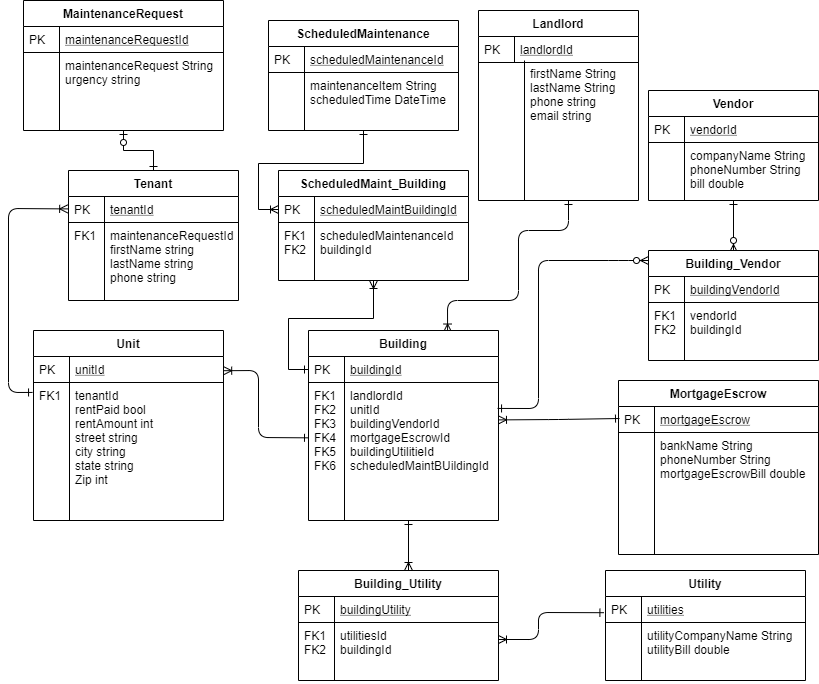
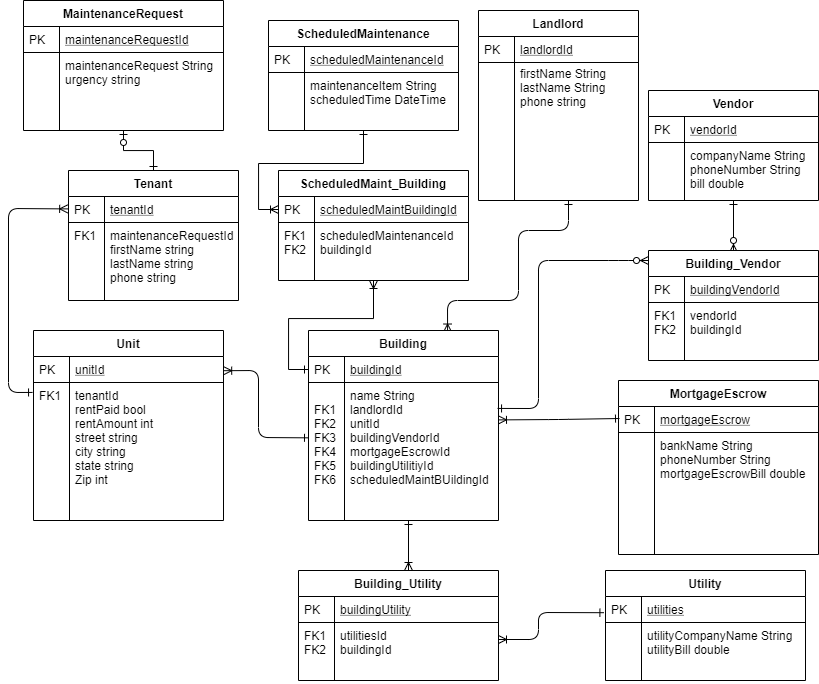
Completed all models and Foreign Key relationship mapping, ready to add-migration

Changed region(s): [[0.3968, 0.5526, 0.6105, 0.7061], [0.6105, 0.0921, 0.7631, 0.1842]]

diff --git a/Models/Building.cs b/Models/Building.cs
@@ -1,5 +1,7 @@
 using System;
 using System.Collections.Generic;
+using System.ComponentModel.DataAnnotations;
+using System.ComponentModel.DataAnnotations.Schema;
 using System.Linq;
 using System.Threading.Tasks;
 
@@ -7,6 +9,25 @@ namespace RPM_Tool.Models
 {
     public class Building
     {
+        [Key]
+        public int Id { get; set; }
+        public string Name { get; set; }
+        [ForeignKey("Landlord")]
+        public int LandlordId { get; set; }
+        [ForeignKey("Unit")]
+        public int UnitId { get; set; }
+        [ForeignKey("BuildingVendor")]
+        public int BuildingVendorId { get; set; }
+        [ForeignKey("MortgageEscrow")]
+        public int MortgageEscrowId { get; set; }
+        [ForeignKey("BuildingUtility")]
+        public int BuildingUtilityId { get; set; }
+        [ForeignKey("ScheduledMaintenance")]
+        public int ScheduledMaintenanceId { get; set; }
 
+        public ICollection<Building_Vendor> Building_Vendors { get; set; }
+
+        public ICollection<Building_Utility> Building_Utilities { get; set; }
+        public ICollection<ScheduledMaintenance_Building> ScheduledMaintenance_Buildings  { get; set; }
     }
 }

diff --git a/Models/Tenant.cs b/Models/Tenant.cs
@@ -1,5 +1,8 @@
-using System;
+using Microsoft.AspNetCore.Identity;
+using System;
 using System.Collections.Generic;
+using System.ComponentModel.DataAnnotations;
+using System.ComponentModel.DataAnnotations.Schema;
 using System.Linq;
 using System.Threading.Tasks;
 
@@ -7,5 +10,18 @@ namespace RPM_Tool.Models
 {
     public class Tenant
     {
+        [Key]
+        public int Id { get; set; }
+        [ForeignKey("IdentityUser")]
+        public string IdentityUserId { get; set; }
+        public IdentityUser IdentityUser { get; set; }
+        [ForeignKey("TednantMaintenanceRequest")]
+        public string TenantMaintenanceRequestId { get; set; }
+        [Display(Name = "First Name")]
+        public string FirstName { get; set; }
+        [Display(Name = "Last Name")]
+        public string LastName { get; set; }
+        [Display(Name = "Phone Number")]
+        public string PhoneNumber { get; set; }
     }
 }

diff --git a/Models/Landlord.cs b/Models/Landlord.cs
@@ -1,6 +1,8 @@
-using System;
+using Microsoft.AspNetCore.Identity;
+using System;
 using System.Collections.Generic;
 using System.ComponentModel.DataAnnotations;
+using System.ComponentModel.DataAnnotations.Schema;
 using System.Linq;
 using System.Threading.Tasks;
 
@@ -10,14 +12,17 @@ namespace RPM_Tool.Models
     {
         [Key]
         public int Id { get; set; }
+        [ForeignKey("IdentityUser")]
+        public string IdentityUserId { get; set; }
+        public IdentityUser IdentityUser { get; set; }
+
         [Display(Name = "First Name")]
         public string FirstName { get; set; }
         [Display(Name = "Last Name")]
         public string LastName { get; set; }
-        [Display(Name = "Phone")]
+        [Display(Name = "Phone Number")]
         public string PhoneNumber { get; set; }
-        [Display(Name = "Email Address")]
-        public string Email { get; set; }
+  
 
     }
 }

diff --git a/Models/Vendor.cs b/Models/Vendor.cs
@@ -1,0 +1,23 @@
+using System;
+using System.Collections.Generic;
+using System.ComponentModel.DataAnnotations;
+using System.Linq;
+using System.Threading.Tasks;
+
+namespace RPM_Tool.Models
+{
+    public class Vendor
+    {
+        [Key]
+        public int Id { get; set; }
+        [Display(Name = "Vendor Name")]
+        public string VendorName { get; set; }
+        [Display(Name = "Phone Number")]
+        public string PhoneNumber { get; set; }
+        [Display(Name = "Service Performed")]
+        public string ServicePeformed { get; set; }
+        public double ServiceBill { get; set; }
+        public ICollection<Building_Vendor> Building_Vendors { get; set; }
+
+    }
+}

diff --git a/Models/Utility.cs b/Models/Utility.cs
@@ -1,0 +1,23 @@
+using System;
+using System.Collections.Generic;
+using System.ComponentModel.DataAnnotations;
+using System.Linq;
+using System.Threading.Tasks;
+
+namespace RPM_Tool.Models
+{
+    public class Utility
+    {
+        [Key]
+        public int Id { get; set; }
+        [Display(Name = "Utility Provider")]
+        public string UtilityProvider { get; set; }
+        [Display(Name = "Utility Type")]
+        public string UtilityType { get; set; }
+        [Display(Name = "Phone Number")]
+        public string PhoneNumber { get; set; }
+        public double Bill { get; set; }
+
+        public ICollection<Building_Utility> Building_Utilities { get; set; }
+    }
+}

diff --git a/Models/ScheduledMaintenance_Building.cs b/Models/ScheduledMaintenance_Building.cs
@@ -1,0 +1,23 @@
+using System;
+using System.Collections.Generic;
+using System.ComponentModel.DataAnnotations;
+using System.ComponentModel.DataAnnotations.Schema;
+using System.Linq;
+using System.Threading.Tasks;
+
+namespace RPM_Tool.Models
+{
+    public class ScheduledMaintenance_Building
+    {
+        [Key]
+        public int Id { get; set; }
+        [ForeignKey("ScheduledMaintenance")]
+        public int ScheduledMaintenanceId { get; set; }
+        public ScheduledMaintenance ScheduledMaintenance { get; set; }
+        [ForeignKey("Building")]
+        public int BuildingId { get; set; }
+        public Building Building { get; set; }
+
+
+    }
+}

diff --git a/Models/Building_Utility.cs b/Models/Building_Utility.cs
@@ -1,0 +1,22 @@
+using System;
+using System.Collections.Generic;
+using System.ComponentModel.DataAnnotations;
+using System.ComponentModel.DataAnnotations.Schema;
+using System.Linq;
+using System.Threading.Tasks;
+
+namespace RPM_Tool.Models
+{
+    public class Building_Utility
+    {
+        [Key]
+        public int Id { get; set; }
+        [ForeignKey("Utility")]
+        public int UtilityId { get; set; }
+        public Utility Utility { get; set; }
+        public int VendorId { get; set; }
+        [ForeignKey("Building")]
+        public int BuildingId { get; set; }
+        public Building Building { get; set; }
+    }
+}

diff --git a/Models/Building_Vendor.cs b/Models/Building_Vendor.cs
@@ -1,0 +1,22 @@
+using System;
+using System.Collections.Generic;
+using System.ComponentModel.DataAnnotations;
+using System.ComponentModel.DataAnnotations.Schema;
+using System.Linq;
+using System.Threading.Tasks;
+
+namespace RPM_Tool.Models
+{
+    public class Building_Vendor
+    {
+        [Key]
+        public int Id { get; set; }
+        [ForeignKey("Vendor")]
+        public int VendorId { get; set; }
+        public Vendor Vendor { get; set; }
+        [ForeignKey("Building")]
+        public int BuildingId { get; set; }
+        public Building Building { get; set; }
+
+    }
+}

diff --git a/Models/MortgageAndEscrow.cs b/Models/MortgageAndEscrow.cs
@@ -1,0 +1,19 @@
+using System;
+using System.Collections.Generic;
+using System.ComponentModel.DataAnnotations;
+using System.Linq;
+using System.Threading.Tasks;
+
+namespace RPM_Tool.Models
+{
+    public class MortgageAndEscrow
+    {
+        [Key]
+        public int Id { get; set; }
+        [Display(Name = "Mortgage Provider")]
+        public string MortgageProvider {get;set;}
+        [Display(Name = "Mortgage and Escrow Bill")]
+        public string MortgageAndEscrowBill { get; set; }
+
+    }
+}

diff --git a/Models/ScheduledMaintenance.cs b/Models/ScheduledMaintenance.cs
@@ -1,0 +1,19 @@
+using System;
+using System.Collections.Generic;
+using System.ComponentModel.DataAnnotations;
+using System.Linq;
+using System.Threading.Tasks;
+
+namespace RPM_Tool.Models
+{
+    public class ScheduledMaintenance
+    {
+        [Key]
+        public int Id { get; set; }
+        [Display(Name = "Maintenance Item")]
+        public string MaintenanceItem { get; set; }
+        [Display(Name = "Scheduled Time")]
+        public DateTime ScheduledTime { get; set; }
+
+    }
+}

diff --git a/Models/TenantMaintenanceRequest.cs b/Models/TenantMaintenanceRequest.cs
@@ -1,0 +1,20 @@
+using System;
+using System.Collections.Generic;
+using System.ComponentModel.DataAnnotations;
+using System.Linq;
+using System.Threading.Tasks;
+
+namespace RPM_Tool.Models
+{
+    public class TenantMaintenanceRequest
+    {
+        [Key]
+        public int Id { get; set; }
+        [Display(Name = "Maintenance Request")]
+        public string MaintenanceRequest { get; set; }
+
+        public string Urgency { get; set; }
+
+
+    }
+}

diff --git a/Models/Unit.cs b/Models/Unit.cs
@@ -15,7 +15,8 @@ namespace RPM_Tool.Models
         public int TenantId { get; set; }
         public int RentAmount { get; set; }
         public bool RentPaid { get; set; }
-        public string Street { get; set; }
+        [Display(Name = "Street Address")]
+        public string StreetAddress { get; set; }
         public string City { get; set; }
         public string State { get; set; }
         public int Zip { get; set; }
